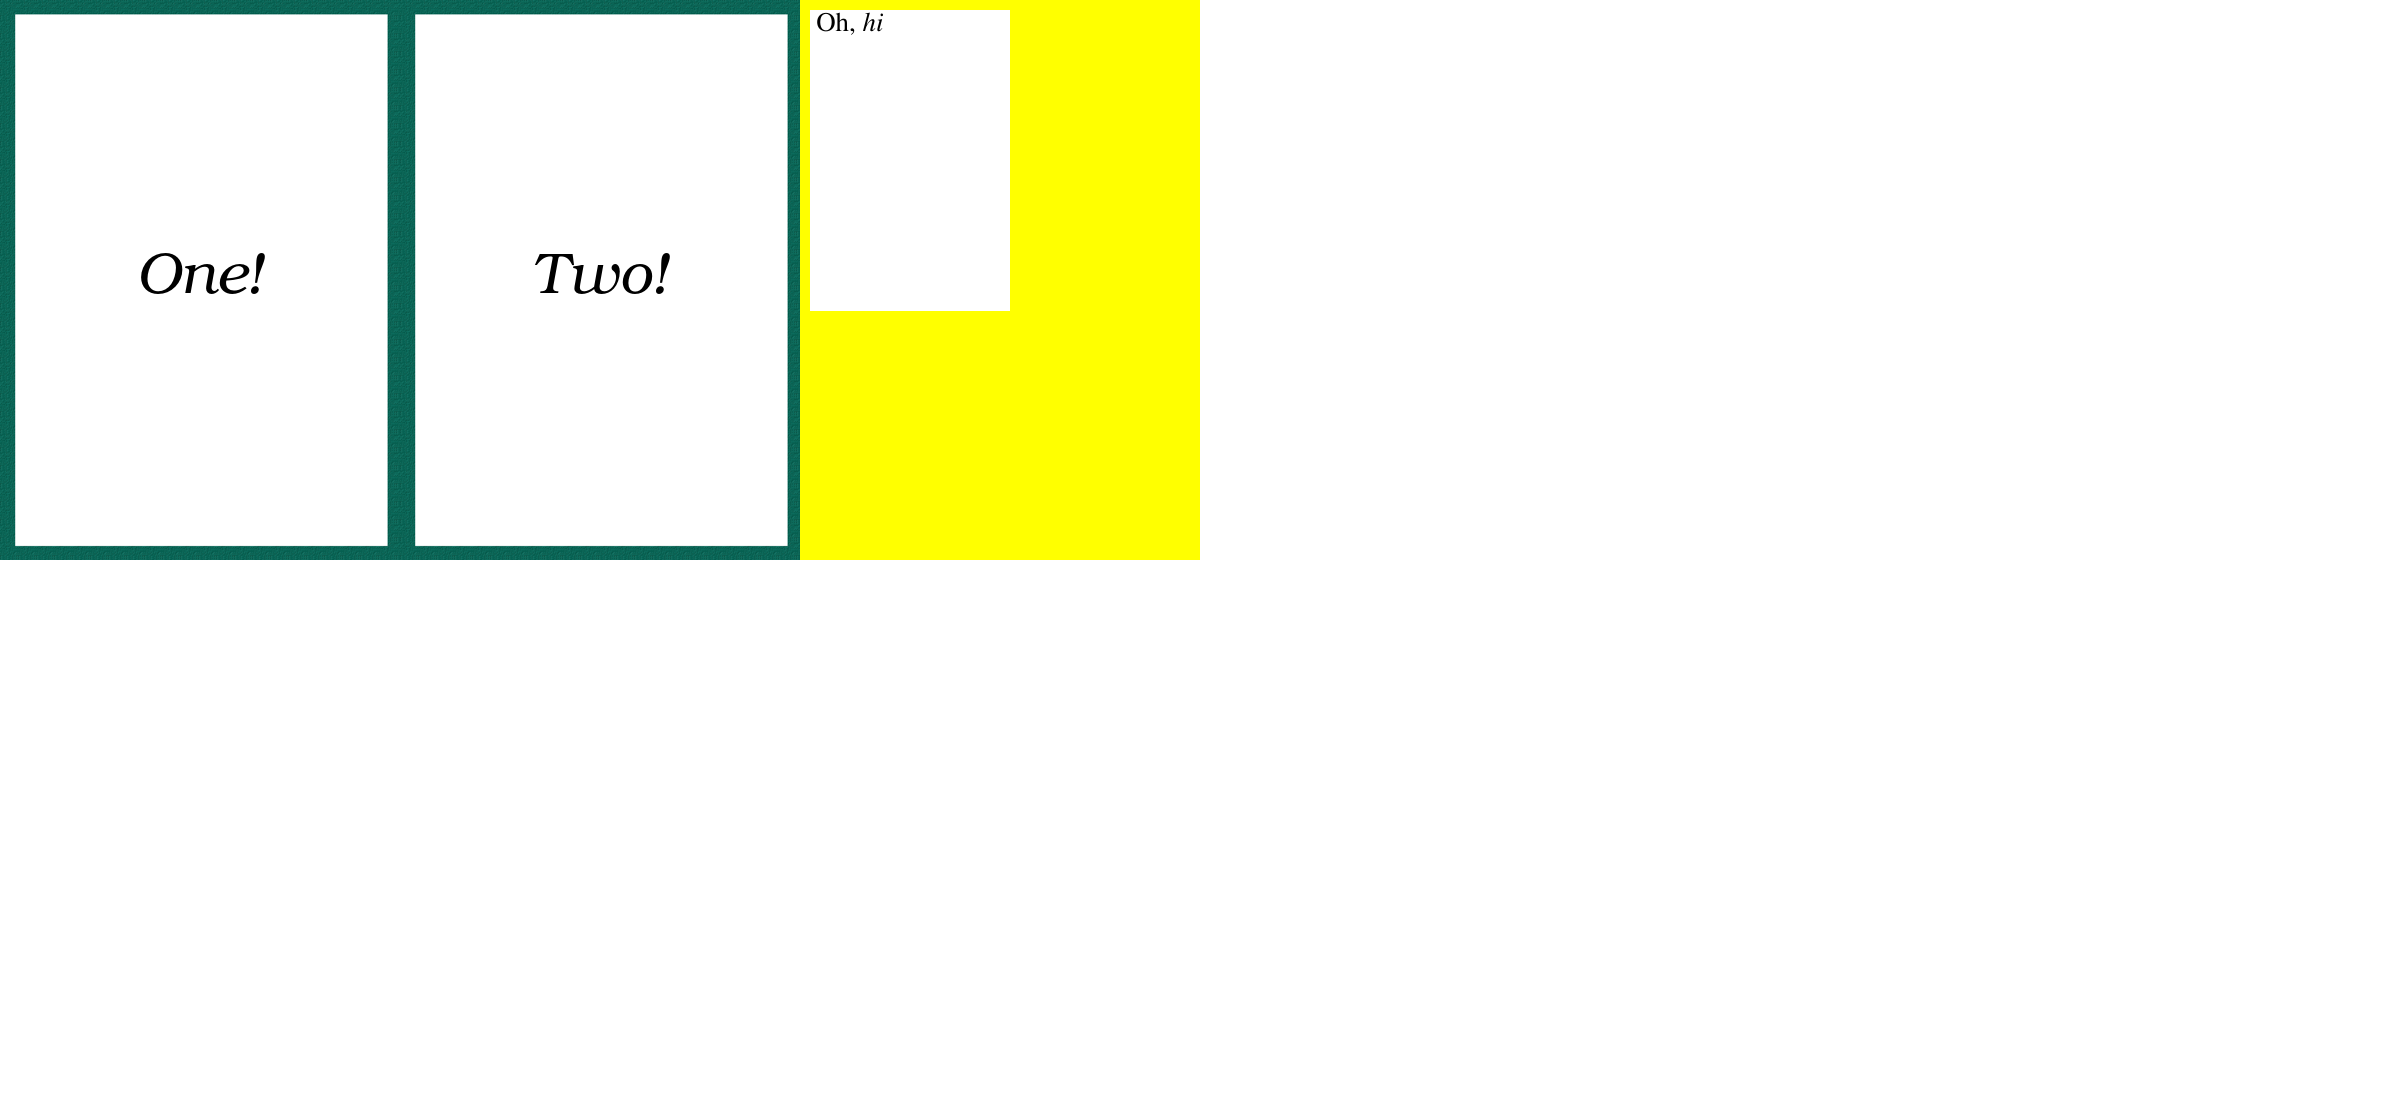
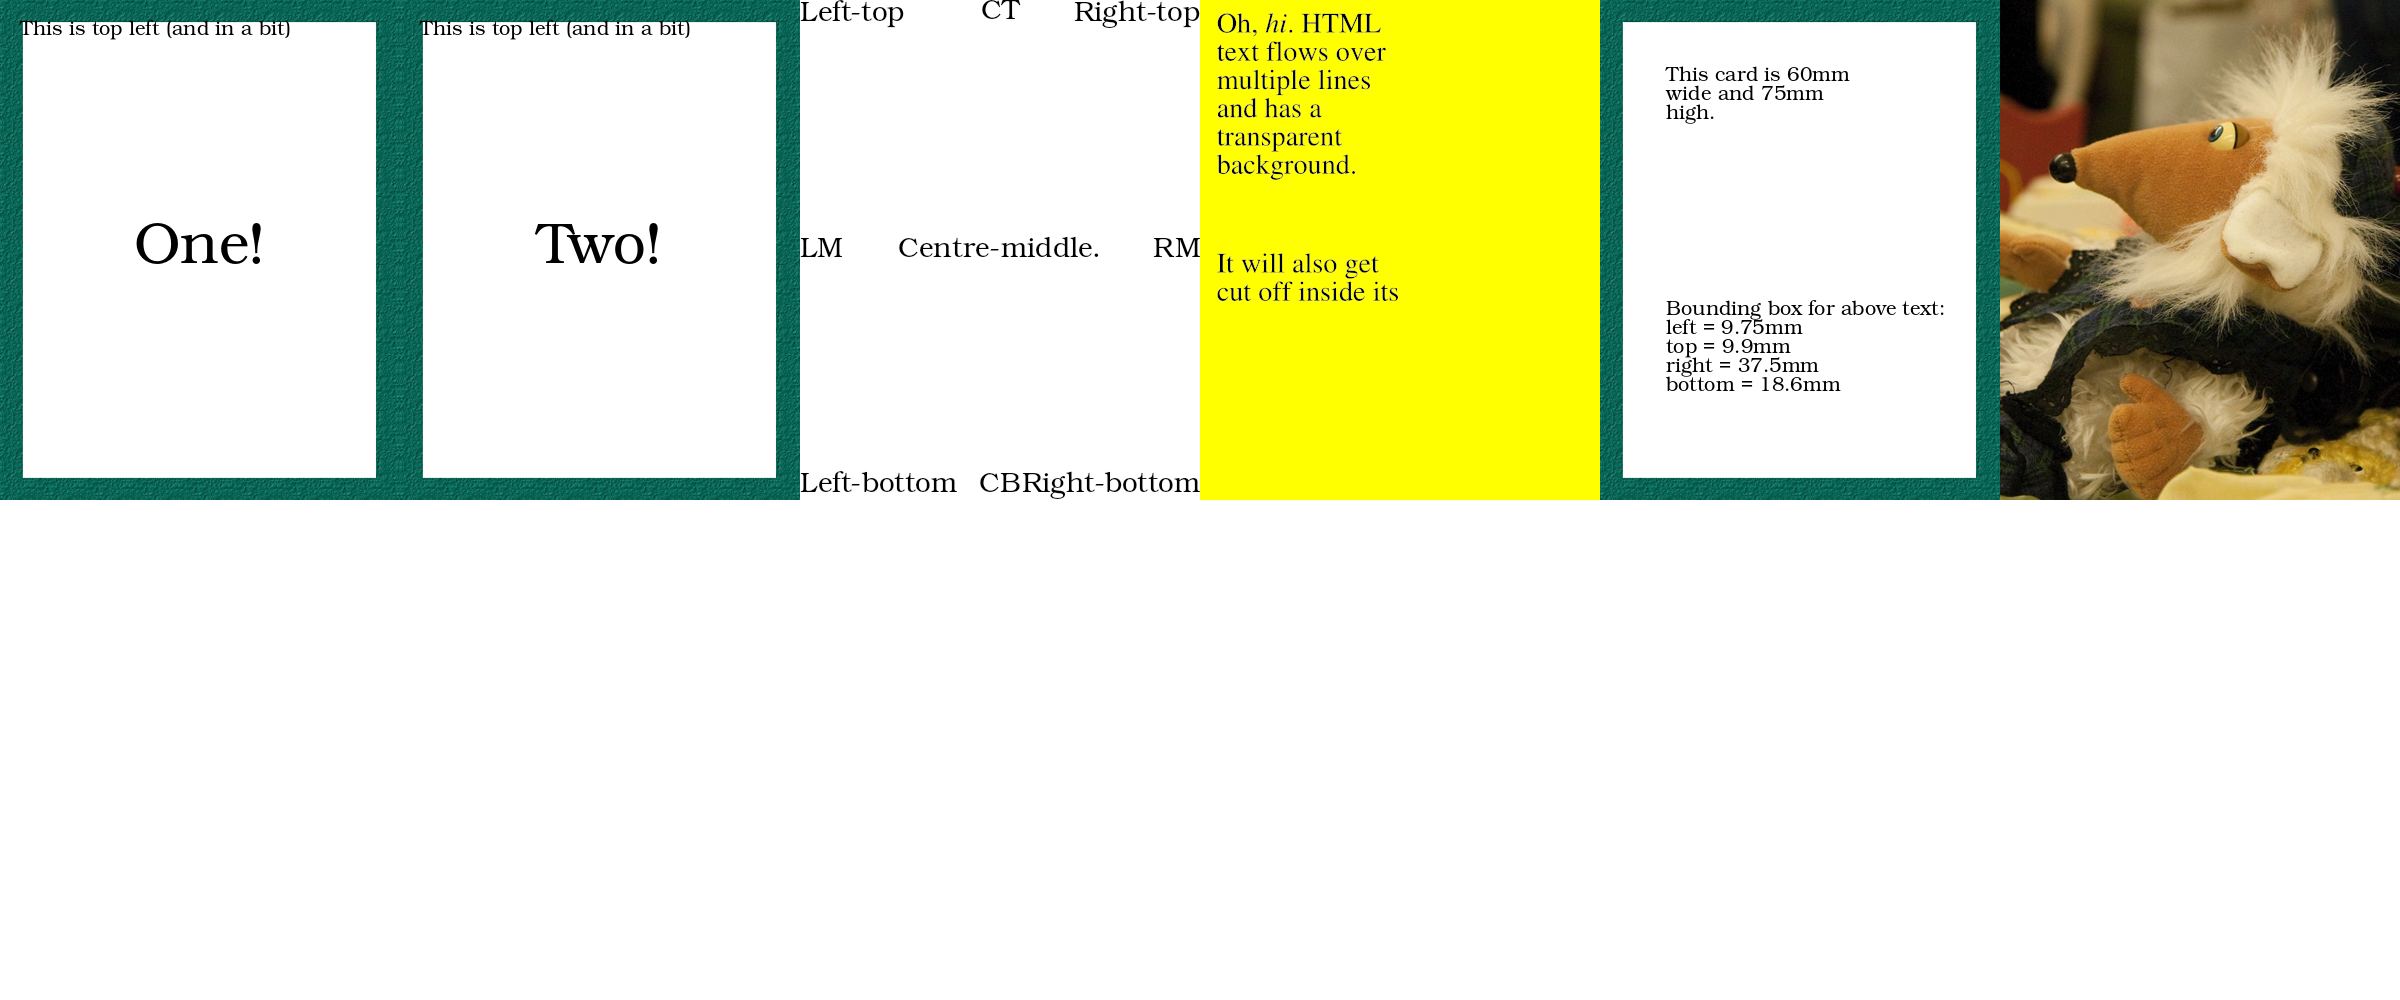
ImageSheet allows CardMaker to be added.

Changed region(s): [[0.0, 0.0, 1.0, 0.527], [0.2188, 0.217, 0.2812, 0.279]]

diff --git a/image_sheet.py b/image_sheet.py
@@ -1,5 +1,7 @@
 from PIL import Image
 
+from card_maker import CardMaker
+
 
 class ImageSheet:
     """
@@ -28,15 +30,27 @@ class ImageSheet:
                                  )
 
 
-    def add(self, im):
+    def add(self, card_or_im):
         """
-        Add the next card image onto the sheet.
+        Add the next CardMaker or Image onto the sheet.
+        The CardMaker image will exclude any gutters.
+        In either case the image will scale to fit the space.
         """
 
         slot_width  = int(self._width / self._columns)
         slot_height = int(self._height / self._rows)
         x_pos       = self._current_column * slot_width
         y_pos       = self._current_row * slot_height
+
+        im = None
+        if isinstance(card_or_im, CardMaker):
+            im = card_or_im.image()
+        elif isinstance(card_or_im, Image.Image):
+            im = card_or_im
+            im = im.convert('RGBA')
+        else:
+            raise TypeError(f"Can only an Image or CardMaker but got a {type(card_or_im)}")
+
         scaled_im   = im.resize(size = (self._card_width, self._card_height))
         self._base_im.paste(im   = scaled_im,
                            box  = (x_pos, y_pos),

diff --git a/demos/image_sheet_demo.py b/demos/image_sheet_demo.py
@@ -1,7 +1,9 @@
 import sys
+import os
 sys.path.append('.')     # So that we can run this from the top directory
 
-import os
+from PIL import Image
+
 from   image_sheet     import ImageSheet
 import card_maker_demo
 from   card_maker_demo import base_maker
@@ -21,13 +23,15 @@ sheet = ImageSheet(card_width  = base_maker.width_px,    # Units are pixels
 # For our first two cards we'll get them and extract the image,
 # which exludes gutters.
 
-sheet.add(card_maker_demo.simple('One!').image())
-sheet.add(card_maker_demo.simple('Two!').image())
-sheet.add(card_maker_demo.text_positioning().image())
+sheet.add(card_maker_demo.simple('One!'))
+sheet.add(card_maker_demo.simple('Two!'))
+sheet.add(card_maker_demo.text_positioning())
 
-sheet.add(card_maker_demo.html().image())
+sheet.add(card_maker_demo.html())
 
-sheet.add(card_maker_demo.bounding_box_demo().image())
+sheet.add(card_maker_demo.bounding_box_demo())
+
+sheet.add(Image.open('demos/assets/womble.jpg'))    # We can add any image, which will scale
 
 
 outfile = outdir + '/demo.png'
